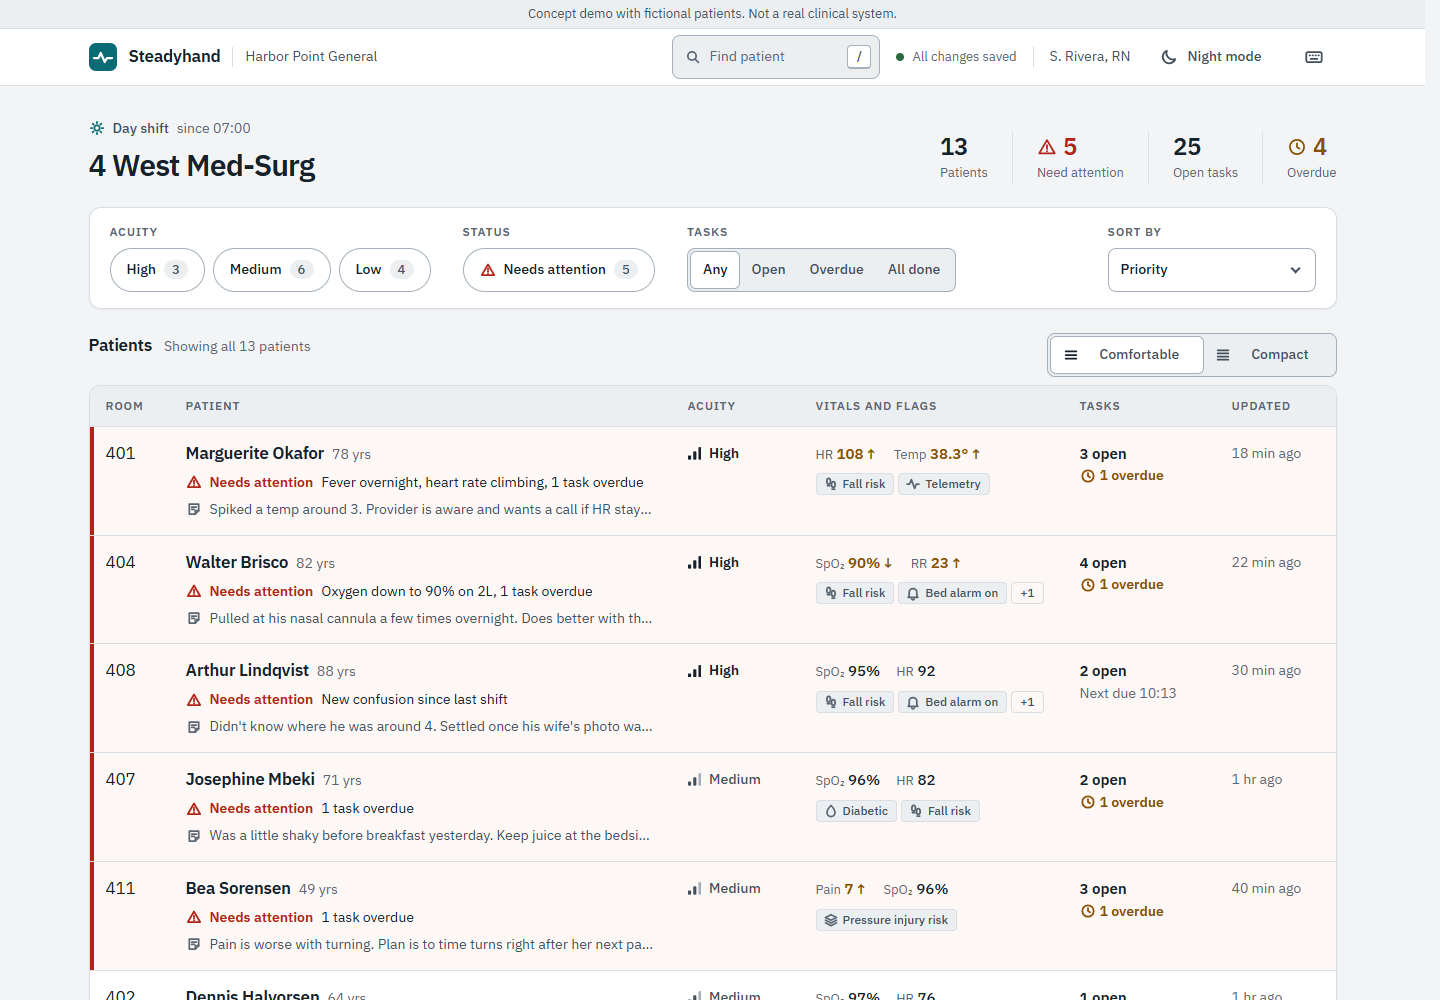
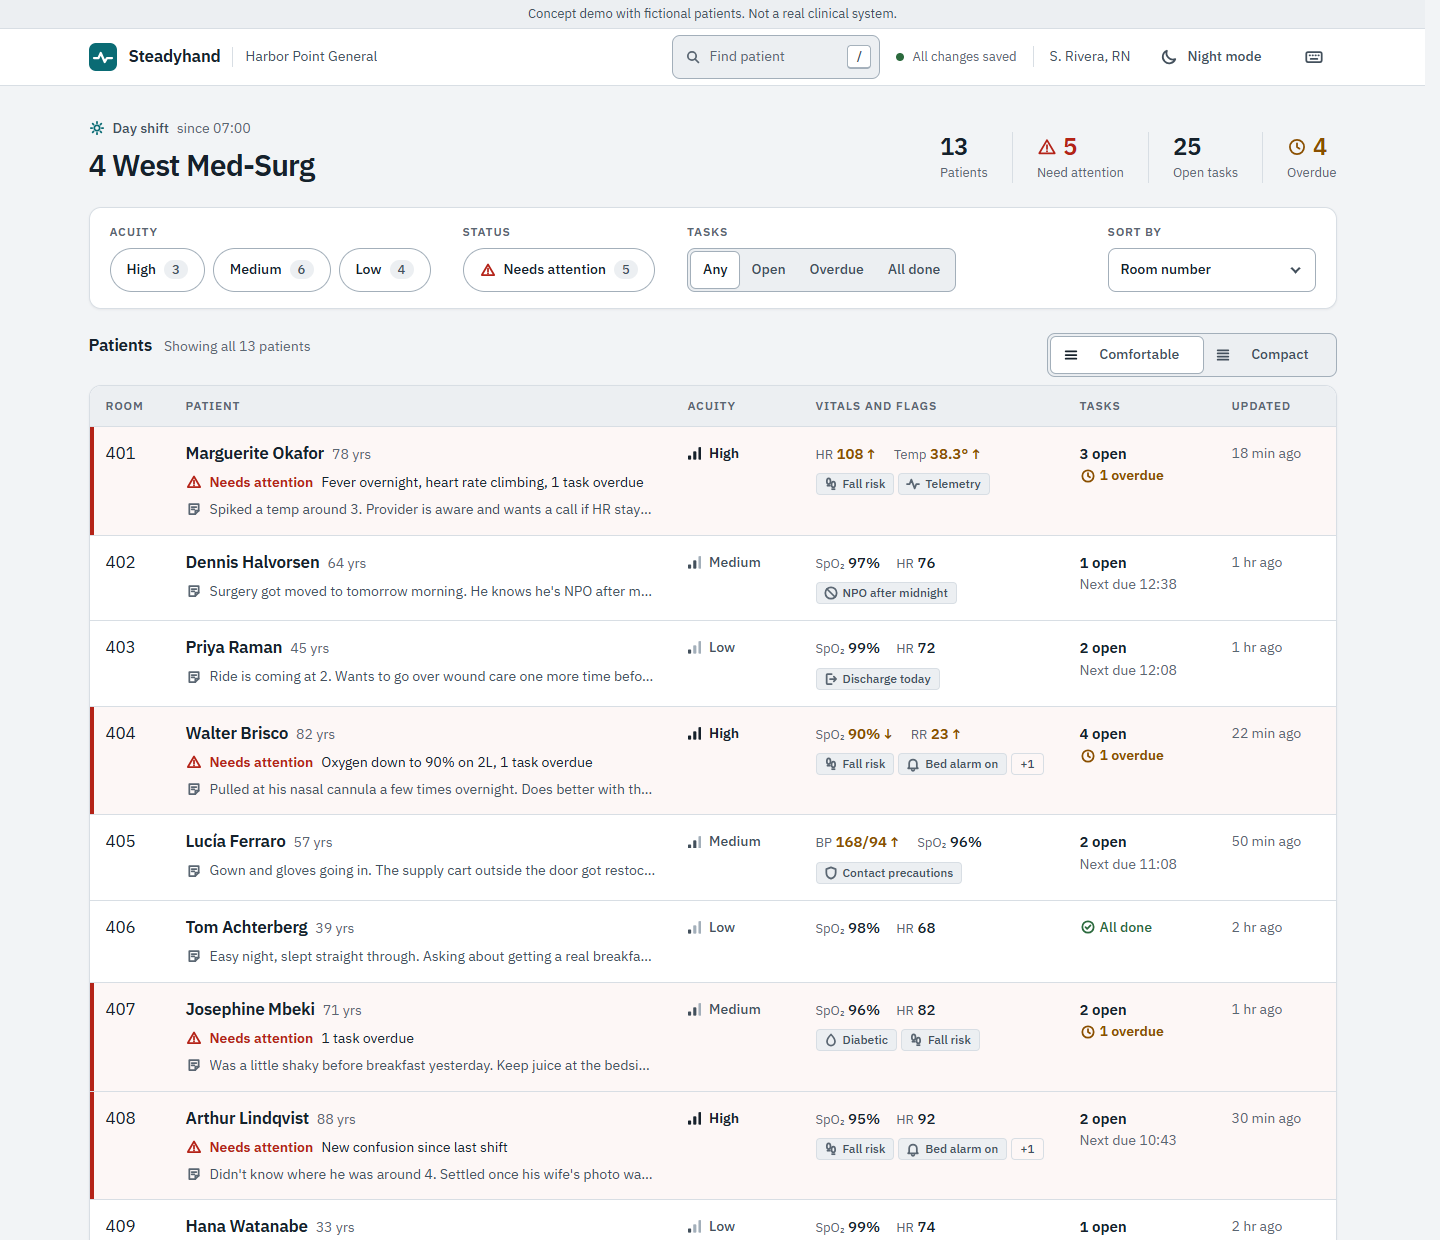
Retake hero screenshot sorted by room
The priority-sorted hero showed almost only flagged rows, which read as
alarm rather than calm. Room order shows flagged and calm patients mixed,
as you'd walk the floor. Captions note the default sort is still priority.

diff --git a/README.md b/README.md
@@ -2,7 +2,7 @@
 
 **Live demo: https://ederyc.github.io/Shift-Handoff-Demo/**
 
-![The Steadyhand board for a fictional unit, 4 West Med-Surg](docs/images/board.png)
+![The Steadyhand board for a fictional unit, 4 West Med-Surg, sorted by room: flagged patients sit among calm ones](docs/images/board.png)
 
 **This is a self-directed concept and practice project.** It isn't real software, it isn't deployed anywhere clinical, and it isn't affiliated with any healthcare company or product. There was no client and no user research. The hospital ("Harbor Point General"), the unit ("4 West Med-Surg"), the staff and all 13 patients are invented. The vitals are rounded on purpose and the "out of range" rules are deliberately simple. None of it is clinical guidance.
 

diff --git a/docs/CASE-STUDY.md b/docs/CASE-STUDY.md
@@ -4,7 +4,9 @@
 
 **Live demo: https://ederyc.github.io/Shift-Handoff-Demo/**
 
-![The Steadyhand roster board for a fictional unit, 4 West Med-Surg](images/board.png)
+![The Steadyhand roster board for a fictional unit, 4 West Med-Surg, sorted by room](images/board.png)
+
+*Sorted by room here, the way you'd walk the floor. The default sort puts the five patients who need attention at the top.*
 
 ## The problem
 
